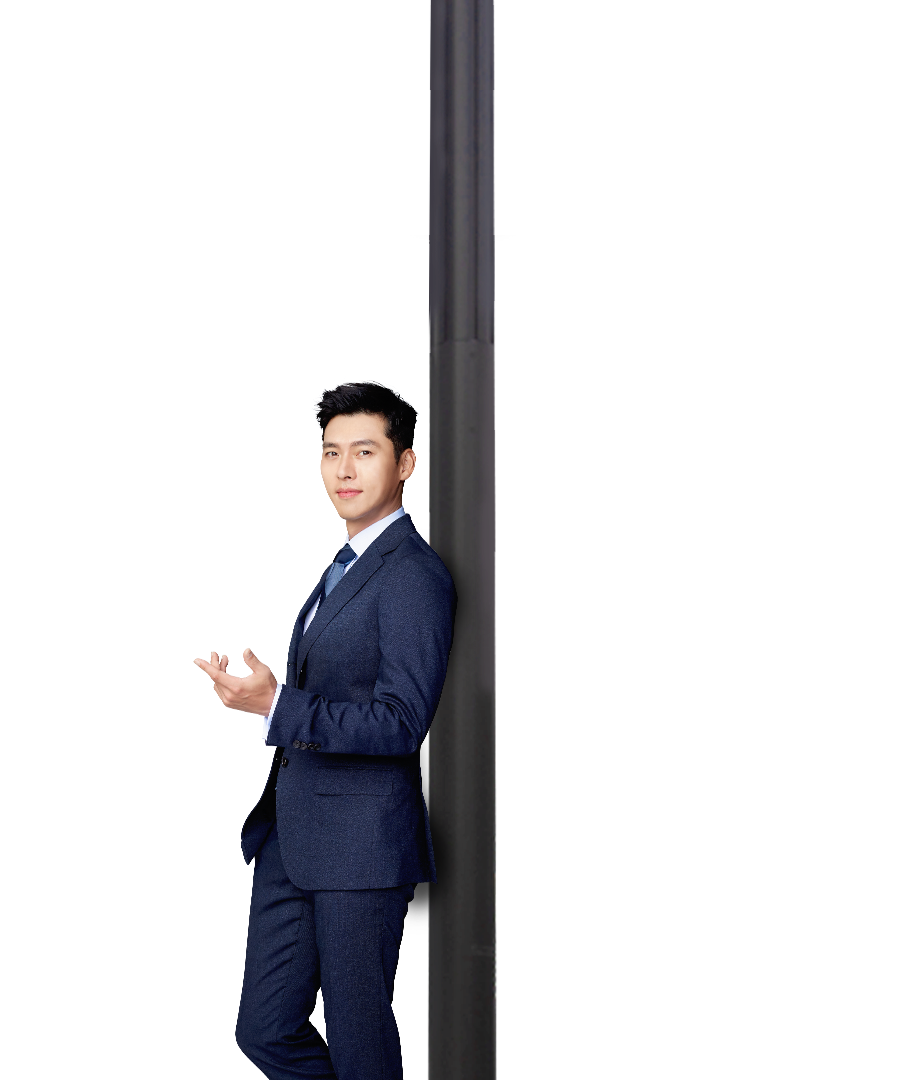
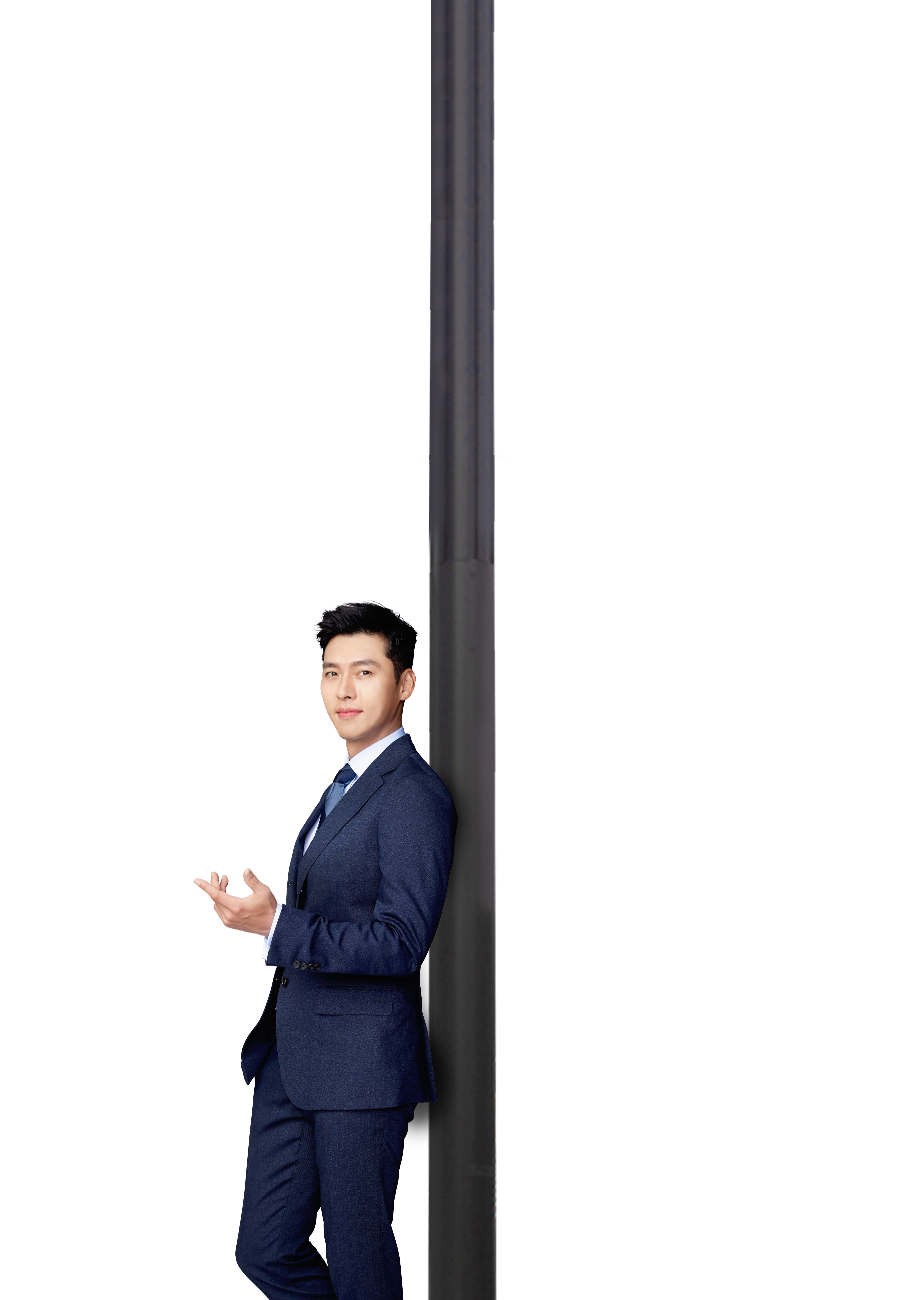
반응형 개선

Changed region(s): [[0.2142, 0.3361, 0.5508, 1.0]]

diff --git a/js/script.js b/js/script.js
@@ -25,19 +25,47 @@ $(function(){ // DOCUMENT READY...
 
 
 
+    /* start */
+    $mainWrap.addClass('center active');
+
+
+
+})();/*
+■■■■■■■■■■■■■■■■■■■■■■■■■■■■■■■■■■■■■■■■■■■■■■■■■■■■■■■■■■■■■■■■■■■■■■■■■■■■■■■■■■■■■■■■■■■■■■■■■
+*/(function(){
+
+
+    /* resize 새로고침 */
+    // window.addEventListener('resize', function() {
+    //     location.reload();
+    //     console.log('a');
+    // }, true);
+
+    // resize();
+
+
+
+})();/*
+■■■■■■■■■■■■■■■■■■■■■■■■■■■■■■■■■■■■■■■■■■■■■■■■■■■■■■■■■■■■■■■■■■■■■■■■■■■■■■■■■■■■■■■■■■■■■■■■■
+*/(function(){
+
+
+
+
+
     /* 터치 이벤트 콜백 */
     let initialX = null,
     initialY = null;
 
     function initTouch(e) {
-        initialX = `${e.touches ? e.touches[0].clientX : e.clientX}`;
-        initialY = `${e.touches ? e.touches[0].clientY : e.clientY}`;
+        initialX = e.touches ? e.touches[0].clientX : e.clientX;
+        initialY = e.touches ? e.touches[0].clientY : e.clientY;
     };
 
     function swipeDirection(e) {
         if (initialX !== null && initialY !== null) {
-        const currentX = `${e.touches ? e.touches[0].clientX : e.clientX}`,
-            currentY = `${e.touches ? e.touches[0].clientY : e.clientY}`;
+        const currentX = e.touches ? e.touches[0].clientX : e.clientX,
+            currentY = e.touches ? e.touches[0].clientY : e.clientY;
 
         let diffX = initialX - currentX,
             diffY = initialY - currentY;
@@ -62,16 +90,16 @@ $(function(){ // DOCUMENT READY...
 
     window.addEventListener("touchstart", initTouch);
     window.addEventListener("touchmove", swipeDirection);
-    window.addEventListener("mousedown", (e) => {
+    window.addEventListener("mousedown", function(e) {
         initTouch(e),
         window.addEventListener("mousemove", swipeDirection)
     });
-    window.addEventListener("mouseup", () => {
+    window.addEventListener("mouseup", function() {
         window.removeEventListener("mousemove", swipeDirection);
     });
 
     // 실행
-    window.addEventListener("mousedown", (e) => {
+    window.addEventListener("mousedown", function(e){
         0 === e.button && (
         initTouch(e),
         window.addEventListener("mousemove", swipeDirection)
@@ -155,7 +183,7 @@ $(function(){ // DOCUMENT READY...
             //상
         } else if (event.keyCode == 39){
             console.log('우');
-            //우            
+            //우
             if (!$mainWrap.hasClass('left') && !$mainWrap.hasClass('right')){
                 $sign.find('.btn_fa').click();
             } else if ($mainWrap.hasClass('left')){
@@ -172,19 +200,21 @@ $(function(){ // DOCUMENT READY...
 ■■■■■■■■■■■■■■■■■■■■■■■■■■■■■■■■■■■■■■■■■■■■■■■■■■■■■■■■■■■■■■■■■■■■■■■■■■■■■■■■■■■■■■■■■■■■■■■■■
 */(function(){
 
+  
 
+    var winW = $mainWrap.width();
 
-    var winW = window.outerWidth;
-    var spreadW = $spread.width();
+    var spread = function() {        
+        var width = $spread.width();
+        var center = Math.abs((width / 2 - winW / 2)) * -1;
+        var right = ($spread.width() - winW) * -1;
+
+        return {center : center, right : right}
+    }
 
     // start
-    $spread.css('left',Math.abs((spreadW / 2 - winW / 2)) * -1);
+    $spread.css('left' , spread().center);
     $paging.find('.page2 i').css('width','100%');
-
-    // start active
-    setTimeout(function(){
-        $mainWrap.addClass('center active');
-    },50);
 
     // shop 화면이동
     $sign.find('.btn_shop').on('click', function() {
@@ -204,7 +234,10 @@ $(function(){ // DOCUMENT READY...
                     $mainWrap.removeClass('pointerNone');
                 });
 
-                $spread.css('left',0);
+                $spread.css({
+                    'left' : 0,
+                    'transition' : ''
+                });
                 $mainWrap.addClass('left').removeClass('right center');
             }
         } else if ( $mainWrap.hasClass('right') ){
@@ -230,7 +263,10 @@ $(function(){ // DOCUMENT READY...
                 });
             });
 
-            $spread.css('left',0);
+            $spread.css({
+                'left' : 0,
+                'transition' : ''
+            });
             $mainWrap.addClass('left').removeClass('right center');
         }
     });
@@ -252,8 +288,11 @@ $(function(){ // DOCUMENT READY...
                 }).animate({ 'width' : '100%' }, 1600, function(){
                     $mainWrap.removeClass('pointerNone');
                 });
-
-                $spread.css('left','-2560px');
+                
+                $spread.css({
+                    'left' : spread().right,
+                    'transition' : ''
+                });
                 $mainWrap.addClass('right').removeClass('left center');
             } else if ( $mainWrap.hasClass('left') ){
                 $paging.find('.page1 i').css({
@@ -278,7 +317,10 @@ $(function(){ // DOCUMENT READY...
                     });
                 });
 
-                $spread.css('left','-2560px');
+                $spread.css({
+                    'left' : spread().right,
+                    'transition' : ''
+                });
                 $mainWrap.addClass('right').removeClass('left center');
             }
         }
@@ -315,10 +357,23 @@ $(function(){ // DOCUMENT READY...
                 });
             }
 
-            $spread.css('left',Math.abs((spreadW / 2 - winW / 2)) * -1);
+            $spread.css({
+                'left' : spread().center,
+                'transition' : 'all 2s ease-in-out'
+            });
             $mainWrap.addClass('center').removeClass('left right');
         }
     }
+    
+    // resize 적용시
+    $(window).on('resize', function(){
+        if ( $mainWrap.hasClass('right') ){            
+            $spread.css({
+                'left' : spread().right,
+                'transition' : 'all 0s'
+            });
+        }
+    });
 
 
 

diff --git a/css/style.css b/css/style.css
@@ -16,7 +16,7 @@ html,body {overflow:hidden;background-color:#000}
 #wrap {overflow:hidden;position:fixed;left:50%;top:50%;width:1920px;height:0;font-size:3.6vw;letter-spacing:-0.03em;opacity:0;cursor:url('/img/type_a/cursor_center.png') 65 50, auto;transform:translate(-50%, -50%)}
 #wrap.left {cursor:url('/img/type_a/cursor_right.png') 65 50, auto}
 #wrap.right {cursor:url('/img/type_a/cursor_left.png') 65 50, auto}
-#wrap.active {visibility:visible;height:920px;opacity:1}
+#wrap.active {visibility:visible;height:100%;min-height:920px;max-height:1080px;opacity:1}
 
 
 /****************************************************************************
@@ -31,20 +31,18 @@ html,body {overflow:hidden;background-color:#000}
 
 
 #sign {position:relative;z-index:1;text-align:center;height:100%}
-#sign .inner {display:inline-block;position:relative;height:100%}
-#sign .board {position:absolute;top:-130px;left:50%;z-index:1;transform:translateX(-50%);perspective:350px}
+#sign .inner {display:inline-block;position:relative;height:100%;width:850px;background:url('/img/type_a/visual_sign.png') center bottom no-repeat;background-size:95%}
+#sign .board {position:absolute;top:-130px;left:50%;z-index:1;transform:translateX(-50%)}
 #sign .board .tit {position:absolute;top:32px;left:68px;font-family:'HGGGothicssi',sans-serif;font-size:40px;font-weight:800;color:#fff}
 #sign .board img {width:auto;height:170px}
-#sign .btn_shop {position:absolute;top:-95px;left:-38px;height:9.2%;transform-origin:center right}
-#sign .btn_fa {display:flex;justify-content:flex-end;position:absolute;top:-95px;right:-45px;height:9.2%;transform-origin:center left}
+#sign .btn_shop {position:absolute;top:-95px;left:-2px;height:9.2%;transform-origin:center right}
+#sign .btn_fa {display:flex;justify-content:flex-end;position:absolute;top:-95px;right:-11px;height:9.2%;transform-origin:center left}
 #sign .btn_shop img,
 #sign .btn_fa img {display:block;width:408px}
-#sign .bg {display:block;width:auto;height:100%}
 #wrap.center #sign {transition:all 2s ease-in-out}
 #wrap.left #sign {transform:translateX(100%);transition:all 3s ease-in-out}
 #wrap.right #sign {transform:translateX(-100%);transition:all 3s ease-in-out}
 #wrap.active #sign .board {top:40px;transition:all 0.8s 0.5s ease-out}
-#wrap.active #sign .board .tit {transform:rotateX(720deg);transition:all 1s 1s ease-out}
 #wrap.active #sign .btn_shop {top:22.78%;transition:all 1s 1.5s ease-out}
 #wrap.active #sign .btn_fa {top:30.78%;transition:all 1s 1.7s ease-out}
 #wrap.active #sign .btn_shop:hover,
@@ -107,7 +105,7 @@ html,body {overflow:hidden;background-color:#000}
 
 #spreadBG {position:absolute;top:0;left:0;height:100%}
 #spreadBG img {display:block;width:auto;max-width:none;height:100%}
-#wrap.center #spreadBG {transition:all 2s ease-in-out}
+#wrap.active.center #spreadBG {filter:blur(3px)}
 #wrap.left #spreadBG,
 #wrap.right #spreadBG {transition:all 3s ease-in-out}
 

diff --git a/index_type1.html b/index_type1.html
@@ -57,7 +57,7 @@
 <!-- #wrap -->
 <div id="wrap" class="mainWrap" data-target-device="pc">
 
-    <div id="pagination" style="background-color: yellow;">
+    <div id="pagination">
         <div class="scroll-to-explore">
             <span></span><br>
             scroll to explore
@@ -98,7 +98,7 @@
             <button class="btn_fa" type="button">
                 <img class="fa" src="/img/type_a/visual_sign_fa.png" alt="" >
             </button>
-            <img class="bg" src="/img/type_a/visual_sign.png" alt="">
+            <!-- <img class="bg" src="/img/type_a/visual_sign.png" alt=""> -->
         </div>
     </div>
 
